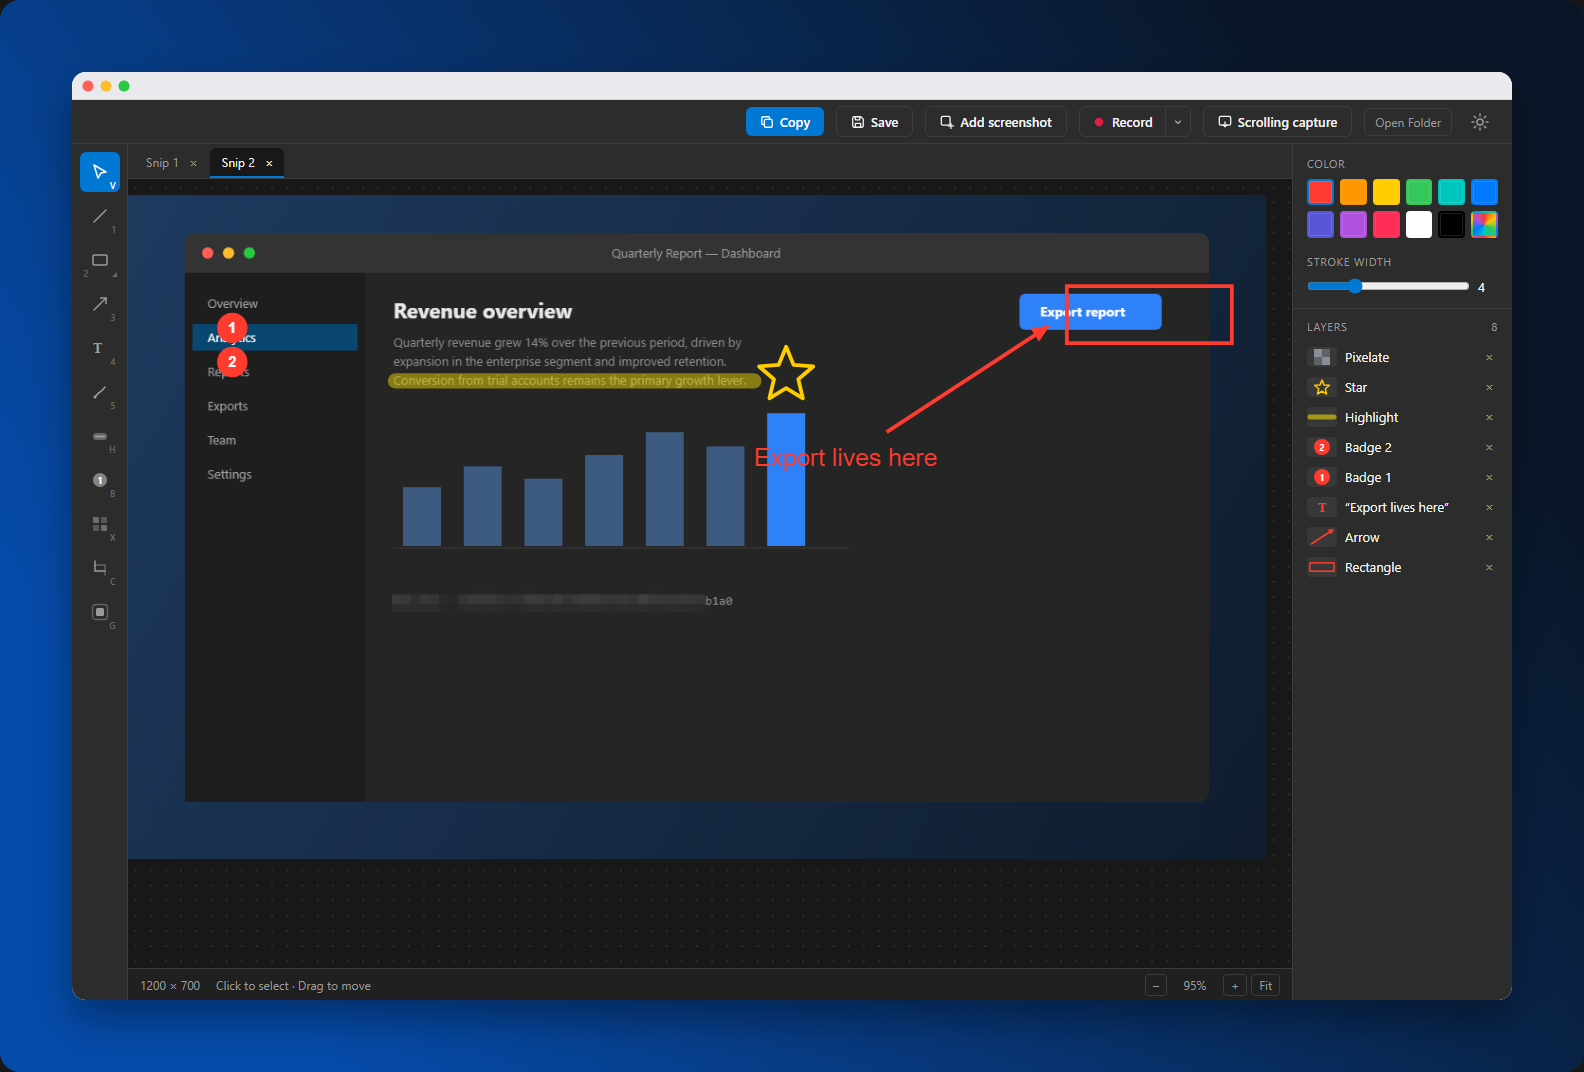
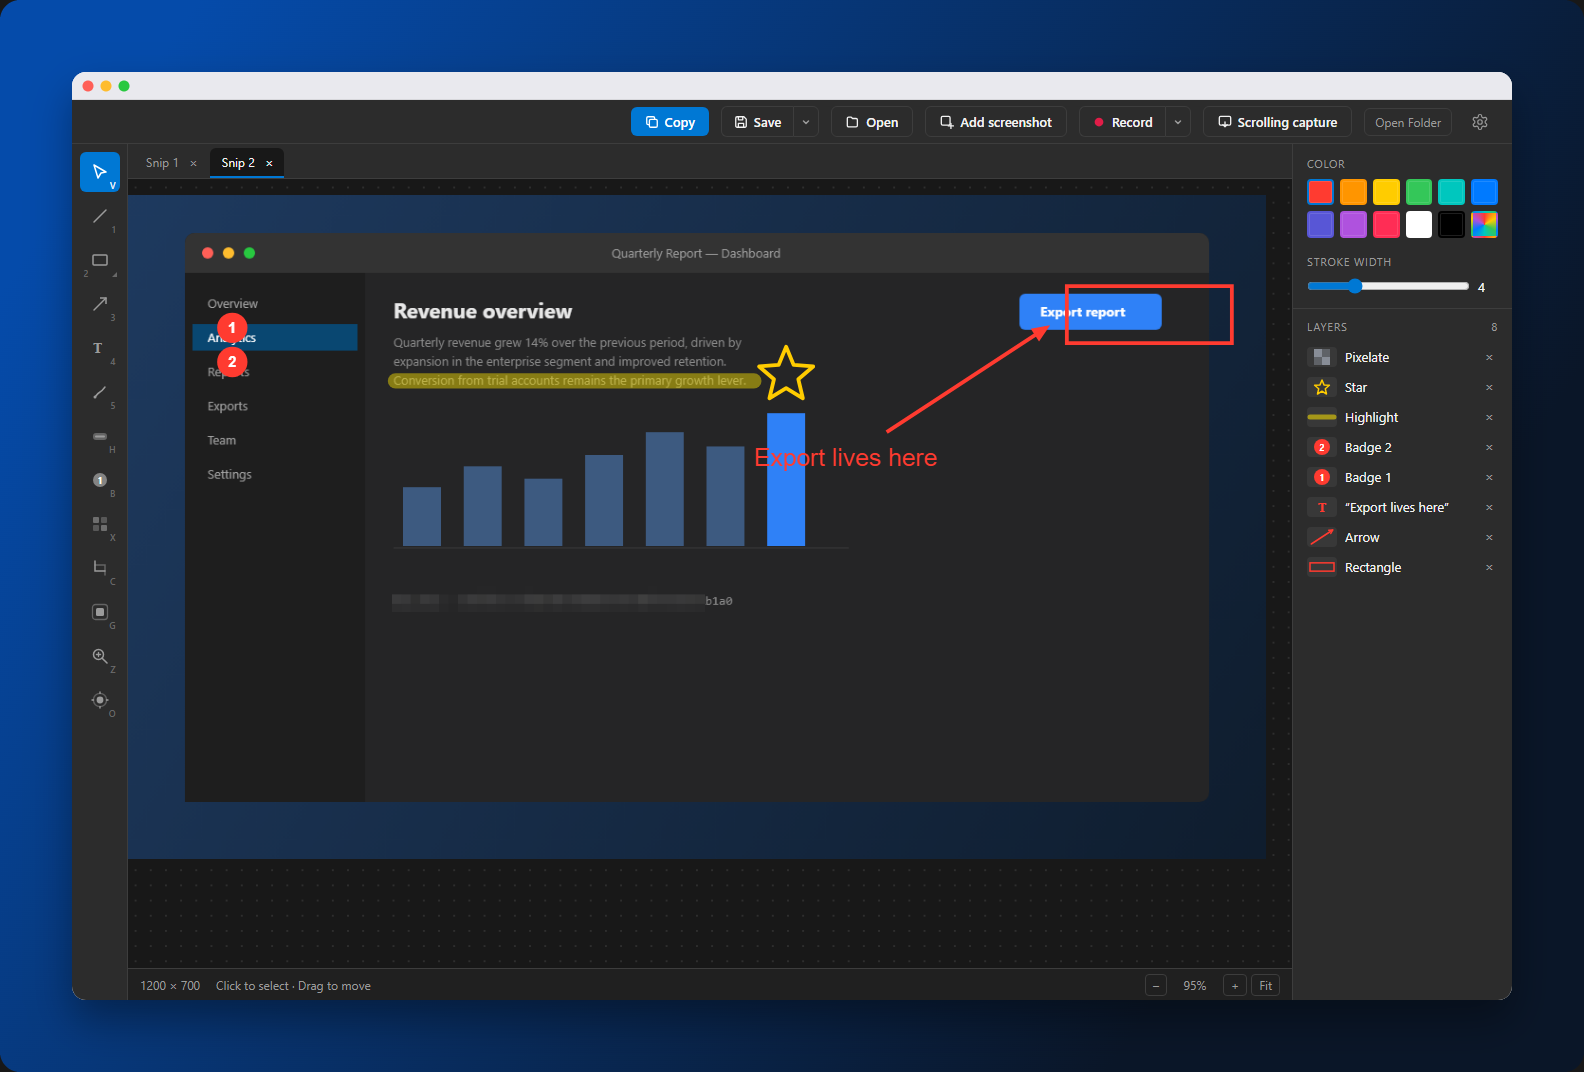
docs: refresh screenshots, add hand-drawn figure
The committed images predated the studio tabs, crop, device frames and
the hand-drawn style, so the right-hand panel in every shot was missing
five controls.

Adds docs/sketch.png (?demo=1&sketch=1) and a README section for the
hand-drawn style, since nothing showed it.

CLAUDE.md pointed the beautify pass at a macos.json that is not in the
repo. The scene goes in on stdin instead, so the recipe is recorded
inline with the padding/frame values that reproduce the committed sizes
— 1440x900 + 72 + a 28px bar is 1584x1072, and changing padding resizes
every image silently.

Changed region(s): [[0.0, 0.6465, 1.0, 1.0], [0.0, 0.0, 0.959, 0.1847]]

diff --git a/README.md b/README.md
@@ -23,6 +23,7 @@ Ordinary copied images don't trigger the editor — snippr checks that the clipb
 ## Features
 
 - **Annotation tools** — line, rectangle, ellipse, triangle, diamond, star, arrow, freehand pen, highlighter, text, auto-numbered step badges (numbers editable in the properties panel)
+- **Hand-drawn style** — render any outline shape as a loose, marker-style stroke instead of clean vector; curved arrow leaders, adjustable arrowhead size and hand-lettered label fonts (see below)
 - **Photoshop-style tool flyout** — hold or right-click the shape button to pick its variants; the button remembers your last choice (the corner caret marks grouped tools)
 - **Color presets** — the usual palette one click away; the last swatch unfolds the full picker with a hex input
 - **Beautify backdrop** — wrap a screenshot in padding, a gradient/solid background, rounded corners, a drop shadow and a macOS/browser window frame; non-destructive, baked only on export (see below)
@@ -55,6 +56,16 @@ Each row renders a miniature of the actual shape — its real geometry and color
 </td>
 </tr>
 </table>
+
+## Hand-drawn annotations
+
+Every outline shape — rectangle, ellipse, the polygon set, arrow, line and step badges — can be drawn as a loose marker stroke instead of clean vector. Flip **Hand-drawn** in the properties panel and the shape re-renders sketched; **Roughness** controls how loose, and **New wobble** rerolls the randomness when a particular squiggle bothers you.
+
+![hand-drawn annotations](docs/sketch.png)
+
+Arrows gain two extras that matter for callouts: a **Curve**, so a leader sweeps to its target rather than poking at it, and a **Head Size** multiplier for when the arrowhead looks shy against a heavy stroke. Text can be set in one of three hand-lettered faces — Kalam, Patrick Hand, Architects Daughter — bundled with the app rather than fetched, so exports render identically offline.
+
+The wobble is seeded per annotation and stored alongside it, so a shape looks the same every time the document is reopened and in the exported PNG. Toggling the style never changes a shape's color — it is a rendering switch only, so it is safe to flip on annotations you have already placed.
 
 ## Beautify
 
@@ -151,4 +162,6 @@ The installer is unsigned — SmartScreen will warn on first run (`More info →
 
 ### README screenshots
 
-The screenshots above are generated from the web build: `npm run dev`, then open `http://localhost:1420/?demo=1` (dev-only demo mode that loads a synthetic screenshot plus sample annotations). Add `&backdrop=1` to show the Beautify backdrop (used for `docs/beautify.png`).
+The screenshots above are generated from the web build: `npm run dev`, then open `http://localhost:1420/?demo=1` (dev-only demo mode that loads a synthetic screenshot plus sample annotations). Add `&backdrop=1` to show the Beautify backdrop (`docs/beautify.png`), or `&sketch=1` for the hand-drawn set (`docs/sketch.png`).
+
+They are then beautified by snippr itself — a backdrop-only scene through the production CLI, written back over the same file, so the images in this README are dogfood.

diff --git a/CLAUDE.md b/CLAUDE.md
@@ -51,12 +51,17 @@ npm run tauri build                                    # NSIS installer
 
 The committed docs screenshots are then **beautified by snippr itself** (dogfood). After regenerating the raw PNGs above, re-run the beautify pass — a backdrop-only scene (`{"annotations":[],"backdrop":{…}}`) through the production CLI, writing back over the same file:
 
+The scene is passed on **stdin** (`--scene -`), so there is no scene file to keep in sync — these exact values are the recipe, and they reproduce the committed images 1:1:
+
 ```powershell
 $exe = "src-tauri\target\release\snippr.exe"   # must be a `tauri build`, not cargo --release
-& $exe generate --input docs\editor.png --scene macos.json --output docs\editor.png
+$macos = '{"annotations":[],"backdrop":{"padding":72,"fill":{"kind":"gradient","from":"#0A1628","to":"#054BAA","angle":225},"cornerRadius":14,"shadow":true,"frame":"macos","aspect":"auto"}}'
+$macos | & $exe generate --input docs\editor.png --scene - --output docs\editor.png
 ```
 
-Frame per shot: `macos` for the full-app captures (editor/empty-state/beautify), `none` (padding + gradient only, smaller padding) for the `layers-panel` crop.
+Frame per shot: `macos` for the full-app captures (editor/empty-state/beautify/sketch), `none` for the `layers-panel` crop — same fill, but `padding:28` and `cornerRadius:8`.
+
+The geometry is load-bearing, because the committed sizes are fixed: a 1440×900 capture + `padding:72` + the 28px macOS title bar = **1584×1072**, and the 220×270 panel crop + `padding:28` = **276×326**. Change padding and every image silently changes size. `Failed to unregister class Chrome_WidgetWin_0` on stderr is benign WebView2 teardown noise — check the printed output path, not the exit chatter.
 
 ## Conventions
 
